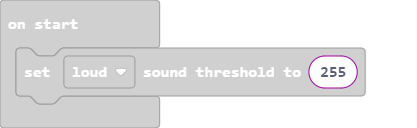
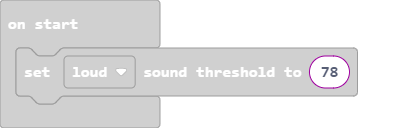
Update main.blocks, main.ts

diff --git a/main.ts b/main.ts
@@ -8,7 +8,7 @@ input.onSound(DetectedSound.Loud, function () {
     }
 })
 let TURNONMICROPHONE = 0
-input.setSoundThreshold(SoundThreshold.Loud, 255)
+input.setSoundThreshold(SoundThreshold.Loud, 78)
 basic.forever(function () {
 	
 })
